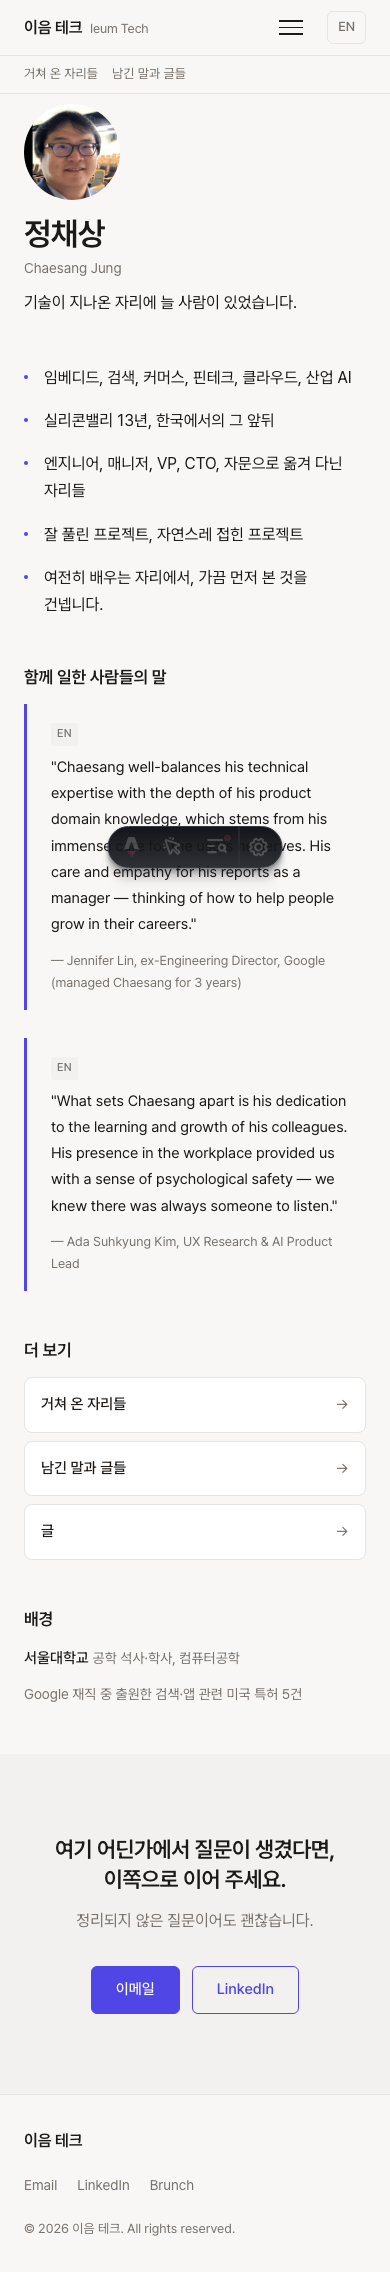
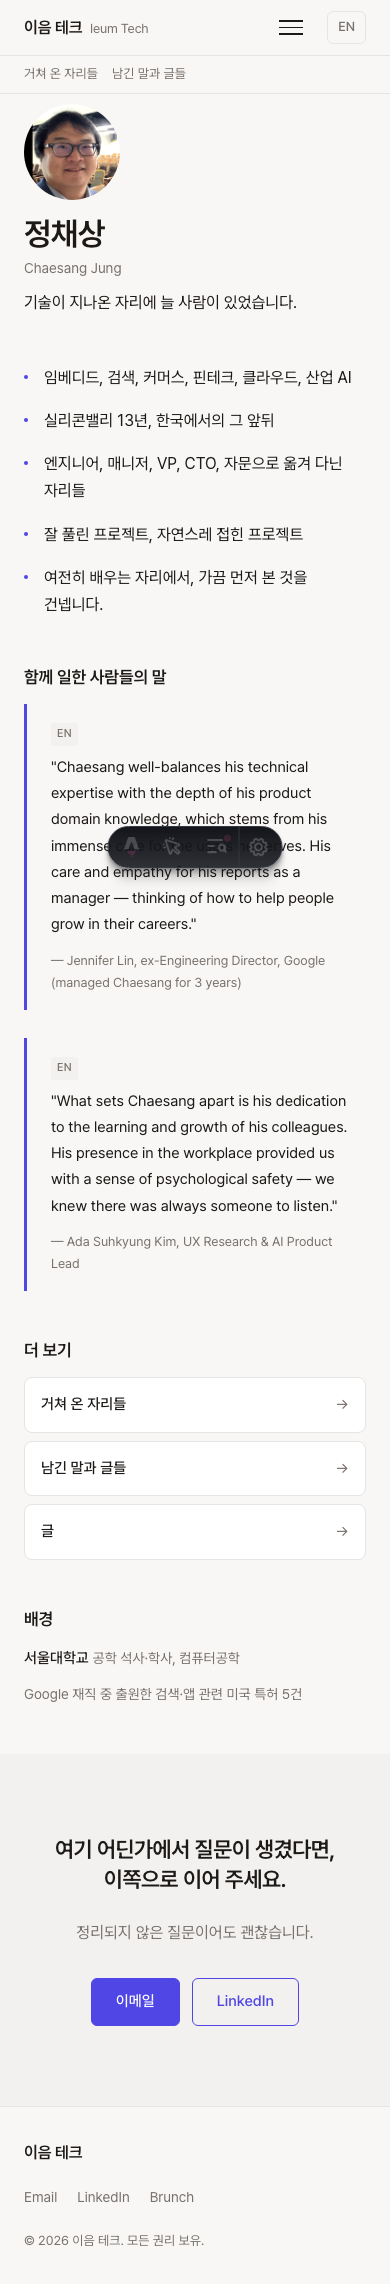
Home v2 polish: CTA/footer separation, tighter Hero, refined copy
- Restore .cta-section background (remove page-level override) so CTA and
  footer are visually distinct; .cta-heading margin-bottom space-3 → space-6.
- Hero: tighten inter-block margins, demote .hero-now to 0.9375rem + muted
  to reduce vertical bloat while keeping bio as the anchor line.
- .anchor-card padding 20 → 24px; .breadth-label min-width 64px (EN parity
  for "Domains"); mobile breadth rows stack vertically.
- Copy: KO tag "자문 · 강의 · 같이 나눌 이야기", heading "함께 할 이야기가
  있다면, 편하게 연락 주세요." (drop the awkward "이어 봐도 좋겠다").
- EN: tag "a conversation we could share", heading "If there's something
  we could work on together, feel free to reach out."
- Footer copyright KO → "모든 권리 보유."

diff --git a/src/i18n/ui.ts b/src/i18n/ui.ts
@@ -32,7 +32,7 @@ export const ui = {
     'cta.email': '이메일',
     'cta.linkedin': '링크드인',
     'cta.langToggle': 'EN',
-    'footer.copy': '© 2026 이음 테크. All rights reserved.',
+    'footer.copy': '© 2026 이음 테크. 모든 권리 보유.',
   },
 } as const;
 

diff --git a/src/styles/global.css b/src/styles/global.css
@@ -321,7 +321,7 @@ section h2 {
   font-weight: 600;
   letter-spacing: -0.02em;
   color: var(--color-text);
-  margin-bottom: var(--space-3);
+  margin-bottom: var(--space-6);
   line-height: 1.4;
 }
 
